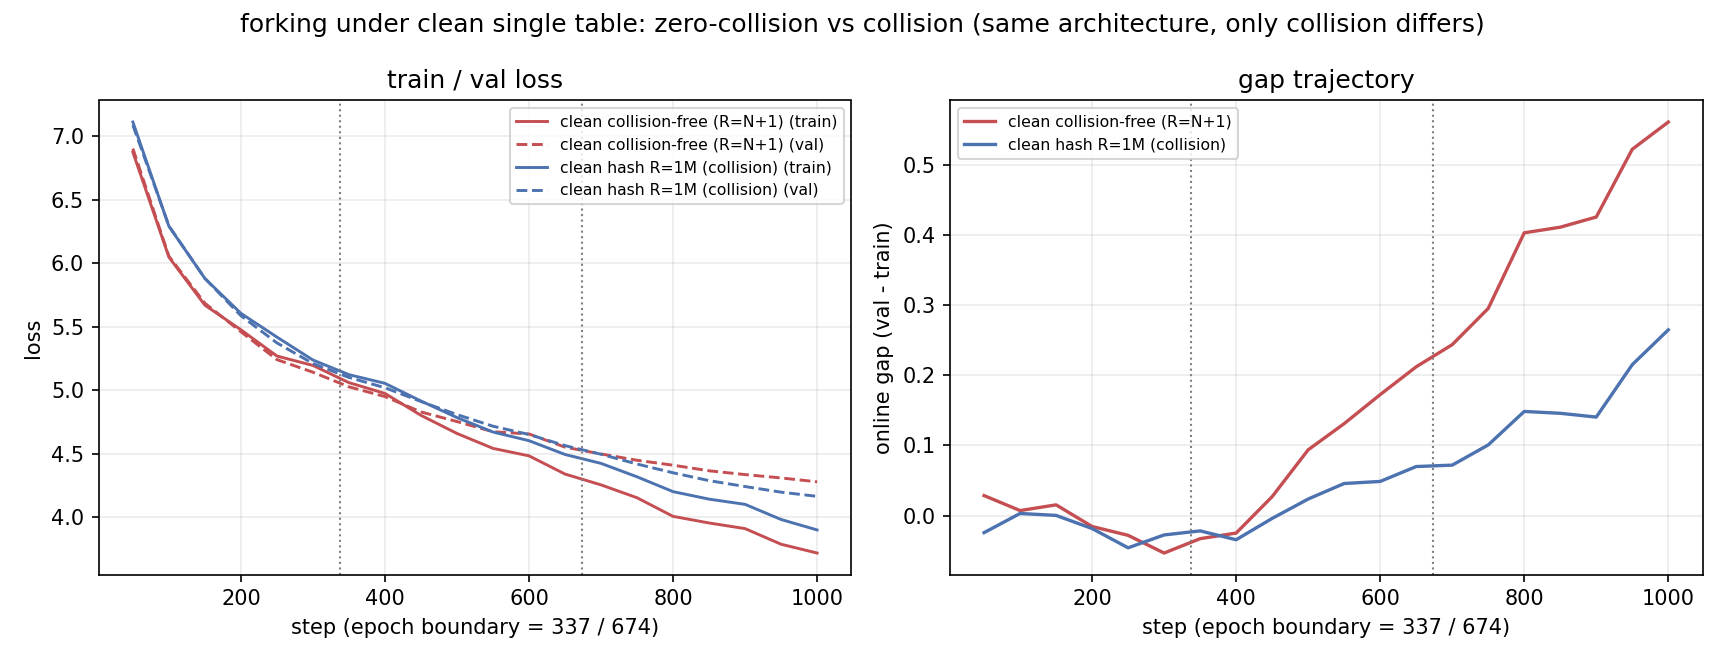
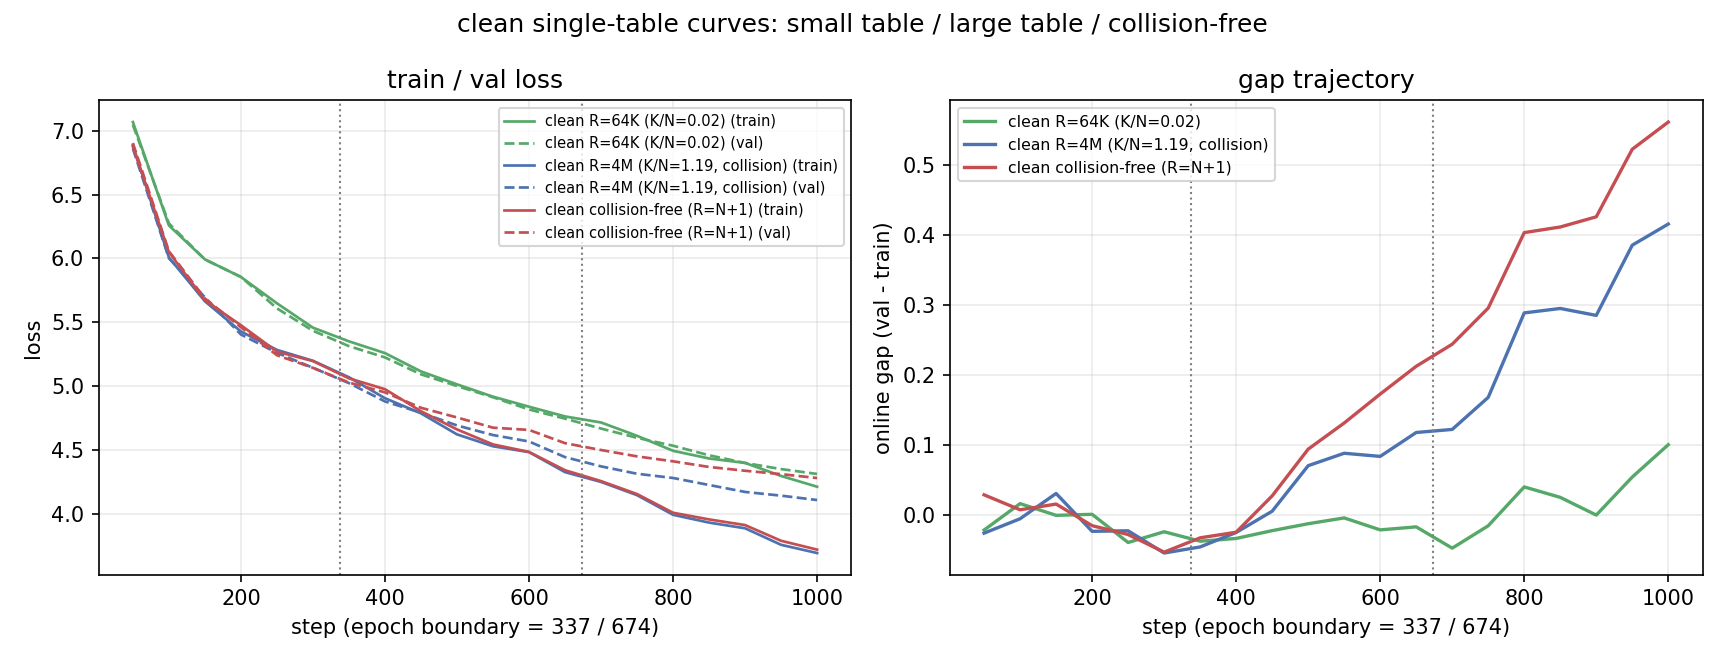
s1: clean wave-2 dense grid (29 bigram + 6 trigram pts); 6M>perfect anomaly at K/N>1.5, low-R backbone floor, tri slope 0.67; loglog fig + 3-curve forking

diff --git a/tasks/s1_scaling_three_axis/analysis/plot_clean_figures.py b/tasks/s1_scaling_three_axis/analysis/plot_clean_figures.py
@@ -1,13 +1,17 @@
 #!/usr/bin/env python3
 """clean 单表相图 + forking 对比（SSOT: clean-table-rework.md）。
 
-图 1 fig_clean_gap_vs_KN.png:
-  - clean 单表 13 点（11 hash sparse + R=1M freq=50 + perfect 零碰撞锚点）
+图 1 fig_clean_gap_vs_KN.png（semilog-x）:
+  - clean 单表 bigram 30 点（wave-1 13 + wave-2 加密 17）+ perfect 零碰撞锚点
+  - clean 单表 trigram 6 点（N_tri = 19.0M，K/N 只到 0.42）
   - 旧 [HISTORICAL 4-LAYER FRAMEWORK] 34 点折线淡色对照
   - min(N,K) 参考线
-图 2 fig_clean_forking.png:
-  - clean perfect vs clean R=1M（同架构，唯一差异=碰撞）的 train/val/gap 曲线
+图 2 fig_clean_gap_vs_KN_loglog.png（双对数）:
+  - 同数据，x=K/N log、y=gap log，检验低 gap 区幂律形态
+图 3 fig_clean_forking.png:
+  - 用户指定只画 3 条曲线：小表 (64K)、大表 (4M)、零碰撞 (perfect)，freq=50
 """
+import csv
 import json
 import os
 
@@ -19,23 +23,21 @@ import numpy as np
 ROOT = os.path.dirname(os.path.dirname(os.path.dirname(
     os.path.dirname(os.path.abspath(__file__)))))
 N_BI = 3_538_293
+N_TRI = 18_989_467
 FIGS = os.path.join(ROOT, "docs/appendices/s1_scaling_three_axis/figs")
 
-CLEAN_RUNS = [  # (run_id, R)  perfect 用 R=N+1
-    ("ctbl_65536_bigram_fixed", 65536),
-    ("ctbl_131072_bigram_fixed", 131072),
-    ("ctbl_262144_bigram_fixed", 262144),
-    ("ctbl_393216_bigram_fixed", 393216),
-    ("ctbl_524288_bigram_fixed", 524288),
-    ("ctbl_786432_bigram_fixed", 786432),
-    ("ctbl_1048576_bigram_fixed", 1048576),
-    ("ctbl_1572864_bigram_fixed", 1572864),
-    ("ctbl_2097152_bigram_fixed", 2097152),
-    ("ctbl_2621440_bigram_fixed", 2621440),
-    ("ctbl_3145728_bigram_fixed", 3145728),
-    ("ctbl_4194304_bigram_fixed", 4194304),
-]
+CLEAN_BI = [65536, 131072, 262144, 393216, 524288, 786432, 1048576, 1572864,
+            2097152, 2621440, 3145728, 4194304,           # wave-1
+            16384, 32768, 49152, 98304, 163840, 196608, 327680, 458752,
+            655360, 917504, 1310720, 1835008, 2359296, 2883584, 3670016,
+            5242880, 6291456]                              # wave-2 dense fill
+CLEAN_TRI = [65536, 262144, 1048576, 2097152, 4194304, 8388608]
 PERFECT = ("ctbl_perfect_bigram_fixed", 3538294)
+CURVE_RUNS = [  # 用户指定：只画小 / 大 / 零碰撞三条曲线
+    ("ctbl_65536_bigram_curve_fixed", "clean R=64K (K/N=0.02)", "#55A868"),
+    ("ctbl_4194304_bigram_curve_fixed", "clean R=4M (K/N=1.19, collision)", "#4C72B0"),
+    ("ctbl_perfect_bigram_fixed", "clean collision-free (R=N+1)", "#C44E52"),
+]
 
 
 def gap_of(run_id):
@@ -50,13 +52,19 @@ def curve_of(run_id):
             [r["val_loss"] for r in rows], [r["gap"] for r in rows])
 
 
-def fig_phase():
-    pts = sorted((R / N_BI, gap_of(rid), R) for rid, R in CLEAN_RUNS)
+def collect():
+    bi = sorted((R / N_BI, gap_of(f"ctbl_{R}_bigram_fixed"), R) for R in CLEAN_BI)
+    tri = []
+    for R in CLEAN_TRI:
+        d = os.path.join(ROOT, "data/runs_scaling", f"ctbl_{R}_trigram_fixed")
+        if os.path.exists(os.path.join(d, "summary.json")):
+            tri.append((R / N_TRI, gap_of(f"ctbl_{R}_trigram_fixed"), R))
+    tri.sort()
     gp = gap_of(PERFECT[0])
-    INF_X = 4.0
-    fig, ax = plt.subplots(figsize=(8.6, 5.2), dpi=150)
-    # historical 4-layer framework, faded
-    import csv
+    return bi, tri, gp
+
+
+def old_framework_series():
     old = {}
     with open(os.path.join(FIGS, "table_summary.csv")) as f:
         for r in csv.DictReader(f):
@@ -65,28 +73,31 @@ def fig_phase():
     for m in (44, 52, 60, 80, 96, 112, 128, 160, 192, 224, 256):
         old[m] = gap_of(f"tbl_{m}_bigram_fixed")
     ox = sorted(old)
-    ax.plot([16384 * m / N_BI for m in ox], [old[m] for m in ox], "-",
-            color="#999999", lw=1, alpha=0.65, zorder=1,
-            label="historical 4-layer framework (34 pts, faded)")
-    # clean series
-    ax.plot([p[0] for p in pts], [p[1] for p in pts], "o-", color="#4C72B0",
-            ms=5, lw=1.6, zorder=3, label="clean single table (12 hash pts)")
+    return [16384 * m / N_BI for m in ox], [old[m] for m in ox]
+
+
+def fig_phase(bi, tri, gp):
+    INF_X = 4.0
+    fig, ax = plt.subplots(figsize=(8.8, 5.2), dpi=150)
+    ox, oy = old_framework_series()
+    ax.plot(ox, oy, "-", color="#999999", lw=1, alpha=0.6, zorder=1,
+            label="historical 4-layer framework bigram (34 pts, faded)")
+    ax.plot([p[0] for p in bi], [p[1] for p in bi], "o-", color="#4C72B0",
+            ms=4.5, lw=1.6, zorder=3, label=f"clean single-table bigram ({len(bi)} pts)")
+    if tri:
+        ax.plot([p[0] for p in tri], [p[1] for p in tri], "^-", color="#DD8452",
+                ms=6, lw=1.4, zorder=3, label=f"clean single-table trigram ({len(tri)} pts)")
     ax.plot([INF_X], [gp], "*", color="#C44E52", ms=17, zorder=4,
-            label=f"clean collision-free (R=N+1, gap={gp:+.3f})")
-    # annotate the R>N hash point vs perfect
-    r4m = [p for p in pts if p[2] == 4194304][0]
-    ax.annotate(f"R=4M (K/N=1.19)\nhash still collides:\n{r4m[1]:+.3f}",
-                (r4m[0], r4m[1]), textcoords="offset points", xytext=(-8, -42),
-                fontsize=8, color="#4C72B0")
-    xr = np.logspace(np.log10(pts[0][0]), np.log10(INF_X), 200)
+            label=f"clean collision-free bigram (R=N+1, gap={gp:+.3f})")
+    xr = np.logspace(np.log10(bi[0][0]), np.log10(INF_X), 200)
     ax.plot(xr, np.minimum(1.0, xr) * gp, "--", color="gray", lw=1, alpha=0.7,
             label="min(N,K) model (norm. to perfect)")
     ax.set_xscale("log")
-    ax.set_xlabel("K / N  (table rows R / distinct bigram contexts = 3.54M)")
+    ax.set_xlabel("K / N  (table rows R / distinct contexts; N_bi=3.54M, N_tri=19.0M)")
     ax.set_ylabel("final online gap (val - train) @ step 1000")
-    ax.set_title("clean single-table bigram: smooth monotone gap vs R, "
+    ax.set_title("clean single-table gap vs R: smooth monotone bigram, "
                  "collision-free anchor above all hash points")
-    xticks = [0.01, 0.02, 0.05, 0.1, 0.2, 0.5, 1, 2]
+    xticks = [0.005, 0.01, 0.02, 0.05, 0.1, 0.2, 0.5, 1, 2]
     ax.set_xticks(xticks + [INF_X])
     ax.set_xticklabels([str(t) for t in xticks] + ["inf\n(collision-free)"])
     ax.axvline(1.0, color="gray", ls=":", lw=1, alpha=0.6)
@@ -96,22 +107,47 @@ def fig_phase():
     out = os.path.join(FIGS, "fig_clean_gap_vs_KN.png")
     fig.savefig(out)
     print(f"wrote {out}")
-    for x, y, R in pts:
-        print(f"  R={R:>8d} K/N={x:.4f} gap={y:+.4f}")
-    print(f"  perfect gap={gp:+.4f}")
+
+
+def fig_loglog(bi, tri, gp):
+    fig, ax = plt.subplots(figsize=(8.2, 5.2), dpi=150)
+    ax.plot([p[0] for p in bi], [p[1] for p in bi], "o-", color="#4C72B0",
+            ms=4.5, lw=1.4, label=f"clean bigram ({len(bi)} pts)")
+    if tri:
+        ax.plot([p[0] for p in tri], [p[1] for p in tri], "^-", color="#DD8452",
+                ms=6, lw=1.4, label=f"clean trigram ({len(tri)} pts)")
+    # log-log slopes over the smooth low-K region (K/N <= 0.3)
+    for pts, name, color in ((bi, "bigram", "#4C72B0"), (tri, "trigram", "#DD8452")):
+        lo = [(x, y) for x, y, _ in pts if x <= 0.3]
+        if len(lo) >= 3:
+            lx = np.log([p[0] for p in lo])
+            ly = np.log([p[1] for p in lo])
+            slope = np.polyfit(lx, ly, 1)[0]
+            xr = np.array([lo[0][0], lo[-1][0]])
+            y0 = lo[0][1] * (xr / lo[0][0]) ** slope
+            ax.plot(xr, y0, ":", color=color, lw=1.2,
+                    label=f"{name} low-K slope={slope:.2f}")
+    ax.plot([4.0], [gp], "*", color="#C44E52", ms=15, label="collision-free bigram")
+    ax.set_xscale("log")
+    ax.set_yscale("log")
+    ax.set_xlabel("K / N")
+    ax.set_ylabel("final online gap (log)")
+    ax.set_title("log-log view: low-gap region tests the power-law form")
+    ax.grid(alpha=0.25, which="both")
+    ax.legend(fontsize=8, loc="lower right")
+    fig.tight_layout()
+    out = os.path.join(FIGS, "fig_clean_gap_vs_KN_loglog.png")
+    fig.savefig(out)
+    print(f"wrote {out}")
 
 
 def fig_forking():
     EPOCH = 337
-    runs = [
-        ("ctbl_perfect_bigram_fixed", "clean collision-free (R=N+1)", "#C44E52"),
-        ("ctbl_1048576_bigram_fixed", "clean hash R=1M (collision)", "#4C72B0"),
-    ]
     fig, (ax1, ax2) = plt.subplots(1, 2, figsize=(11.5, 4.4), dpi=150)
-    for run_id, label, color in runs:
+    for run_id, label, color in CURVE_RUNS:
         steps, tr, va, gap = curve_of(run_id)
-        ax1.plot(steps, tr, color=color, lw=1.4, label=f"{label} (train)")
-        ax1.plot(steps, va, color=color, lw=1.4, ls="--", label=f"{label} (val)")
+        ax1.plot(steps, tr, color=color, lw=1.3, label=f"{label} (train)")
+        ax1.plot(steps, va, color=color, lw=1.3, ls="--", label=f"{label} (val)")
         ax2.plot(steps, gap, color=color, lw=1.6, label=label)
         for b in (EPOCH, 2 * EPOCH):
             pre = max((s, l) for s, l in zip(steps, tr) if s < b)
@@ -125,12 +161,11 @@ def fig_forking():
         ax.set_xlabel("step (epoch boundary = 337 / 674)")
     ax1.set_ylabel("loss")
     ax1.set_title("train / val loss")
-    ax1.legend(fontsize=7.5, loc="upper right")
+    ax1.legend(fontsize=7, loc="upper right")
     ax2.set_ylabel("online gap (val - train)")
     ax2.set_title("gap trajectory")
     ax2.legend(fontsize=7.5, loc="upper left")
-    fig.suptitle("forking under clean single table: zero-collision vs collision "
-                 "(same architecture, only collision differs)")
+    fig.suptitle("clean single-table curves: small table / large table / collision-free")
     fig.tight_layout()
     out = os.path.join(FIGS, "fig_clean_forking.png")
     fig.savefig(out)
@@ -138,5 +173,12 @@ def fig_forking():
 
 
 if __name__ == "__main__":
-    fig_phase()
+    bi, tri, gp = collect()
+    print(f"bigram {len(bi)} pts | trigram {len(tri)} pts | perfect {gp:+.4f}")
+    for x, y, R in bi:
+        print(f"  bi R={R:>8d} K/N={x:.4f} gap={y:+.4f}")
+    for x, y, R in tri:
+        print(f"  tri R={R:>8d} K/N={x:.4f} gap={y:+.4f}")
+    fig_phase(bi, tri, gp)
+    fig_loglog(bi, tri, gp)
     fig_forking()

diff --git a/docs/experiment-log.md b/docs/experiment-log.md
@@ -1548,11 +1548,42 @@ v2 波次 freq-bin 的 train 侧是「每次评估从独立诊断迭代器新取
 产物：`figs/fig_clean_gap_vs_KN.png`、`figs/fig_clean_forking.png`；
 `tasks/s1_scaling_three_axis/analysis/plot_clean_figures.py`。
 
+### §22b · wave-2 加密网格 + trigram 首扫（2026-08-25）
+
+用户拍板：table size 自由加密（小 R 区重点）、双对数视图、forking 只画
+小表/大表/零碰撞三条。launcher `run_clean_table_dense2.sh`（25 run，360-2
+GPU 1-7，wave 调度）。bigram 累计 29 点（新增 16K/32K/96K/160K/192K/320K/
+448K/640K/896K/1.25M/1.75M/2.25M/3.5M/5M/6M + 64K/4M 的 freq=50 `_curve`
+补跑），trigram 首扫 6 点（R=64K…8M，K/N 0.0034–0.44；trigram N=18,989,467，
+无零碰撞锚点——R=N 需 19M 行放不下单卡）。
+
+**发现**：
+1. **大 R 区（K/N>1）涨落回归**：5M 回落到 0.407（低于 4M 的 0.466），
+   **6M 跳到 0.751，超过 perfect 锚点 0.561**。"零碰撞是所有 hash 表的
+   上界"在 K/N>1.5 区不再成立（该论断在 K/N≤1.19 区全部成立）。
+   单 seed 无法区分 hash 实例噪声与真实过饱和行为——**待 seed 43/44 仲裁**。
+2. **低 R 饱和**：16K/32K 均 ~0.08，与 64K 0.097 接近——小表端 gap 由
+   backbone 自身过拟合地板主导，表贡献趋零。
+3. **trigram 远陡于 bigram**：同 K/N 下 gap 3–5 倍；log-log 低 K 段斜率
+   tri ≈ 0.67 vs bi ≈ 0.33。min(N,K) 模型预言低 K 斜率 1，两者均不满足
+   （bigram 0.33–0.49、trigram 0.67），频率加权 × 采样律修正仍必要。
+4. **双对数视图**（`fig_clean_gap_vs_KN_loglog.png`）：bigram 主体近似
+   幂律但大 R 断点清晰；trigram 全段更接近直线幂律。
+5. **forking 三曲线**（64K / 4M / perfect）：64K gap 轨迹平（<0.1）但
+   瞬时跳变幅度与其他曲线相当（@337 −0.107）；4M 与 perfect 前 2 epoch
+   重合，epoch 3 perfect 拉开——零碰撞优势主要在 replay 后期的积累阶段。
+
+产物：`figs/fig_clean_gap_vs_KN.png`（semilog 29+6 点）、
+`figs/fig_clean_gap_vs_KN_loglog.png`、`figs/fig_clean_forking.png`；
+launcher `run_clean_table_dense2.sh`。
+
 ### 后续（待拍板）
-- [ ] clean 网格 seed 43/44（确认光滑性与 perfect 倍率的跨 seed 稳健性）
-- [ ] clean 版 trigram / both module（SSOT §3.2 要求三 module）
+- [ ] clean 网格 seed 43/44（**仲裁 6M>perfect 是否 hash 实例噪声**；同时
+  确认光滑性与 perfect 倍率的跨 seed 稳健性）
+- [ ] clean 版 trigram 加密 + both module（SSOT §3.2 要求三 module）
 - [ ] clean 版 row-level（--save_final_model + probe，复用 §20 管线）
 - [ ] jamming 区更密取点（R 1M-3M 间插 6-8 点）刻画 1.5M≈2M 平台结构
+- [ ] trigram clean occupancy 模式（table_occupancy.py 尚不支持）
 
 ---
 
